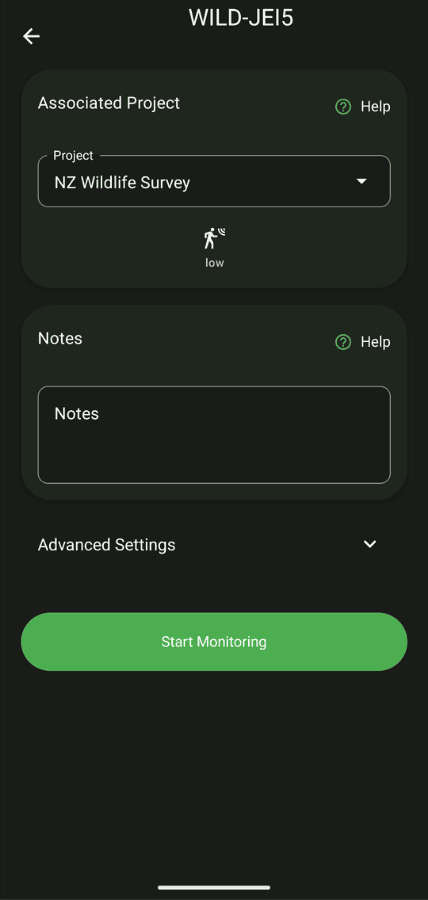
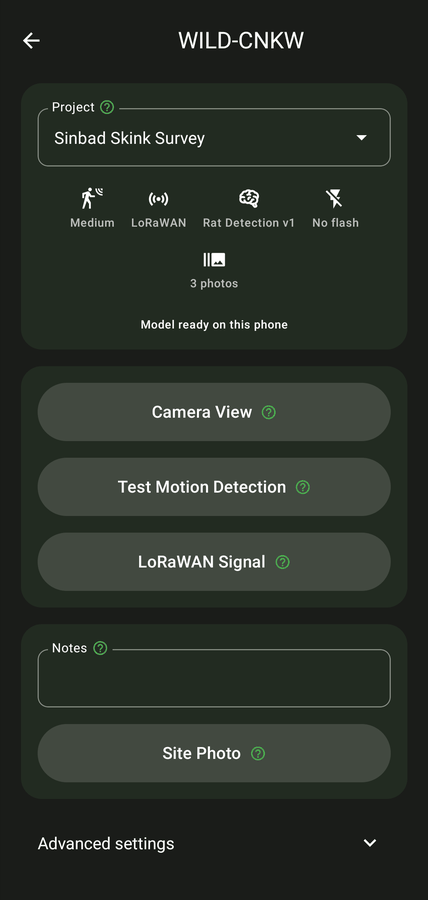
docs(tutorial): show and describe today's Start Monitoring screen (#576)
The tutorial's Start Monitoring page still showed the screen from before the 26 Oct redesign, with
an "Associated Project" title and Help pills. The picture is now the current screen on WILD-CNKW
(28 Nov 2026), and the text names its parts: project, Camera View, the motion test, notes, the
site photo and Start Monitoring.

Closes #576

diff --git a/src/navigation/screens/user/TutorialScreen.tsx b/src/navigation/screens/user/TutorialScreen.tsx
@@ -63,7 +63,7 @@ const TUTORIAL_STEPS: TutorialStep[] = [
         id: 'deploy',
         title: 'Start Monitoring',
         description:
-            'When you connect to the Wildlife Watcher you need to specify the associated project for the monitoring and record any notes. You can also preview the field of view of the camera, motion detection and other advanced settings.',
+            'When you connect to a Wildlife Watcher, choose the project it monitors for. Camera View shows what the camera sees and Test Motion Detection what wakes it. Add notes and a site photo, then tap Start Monitoring.',
         images: [require('../../../../assets/tutorial/start_monitoring_page.png')],
     },
     {
